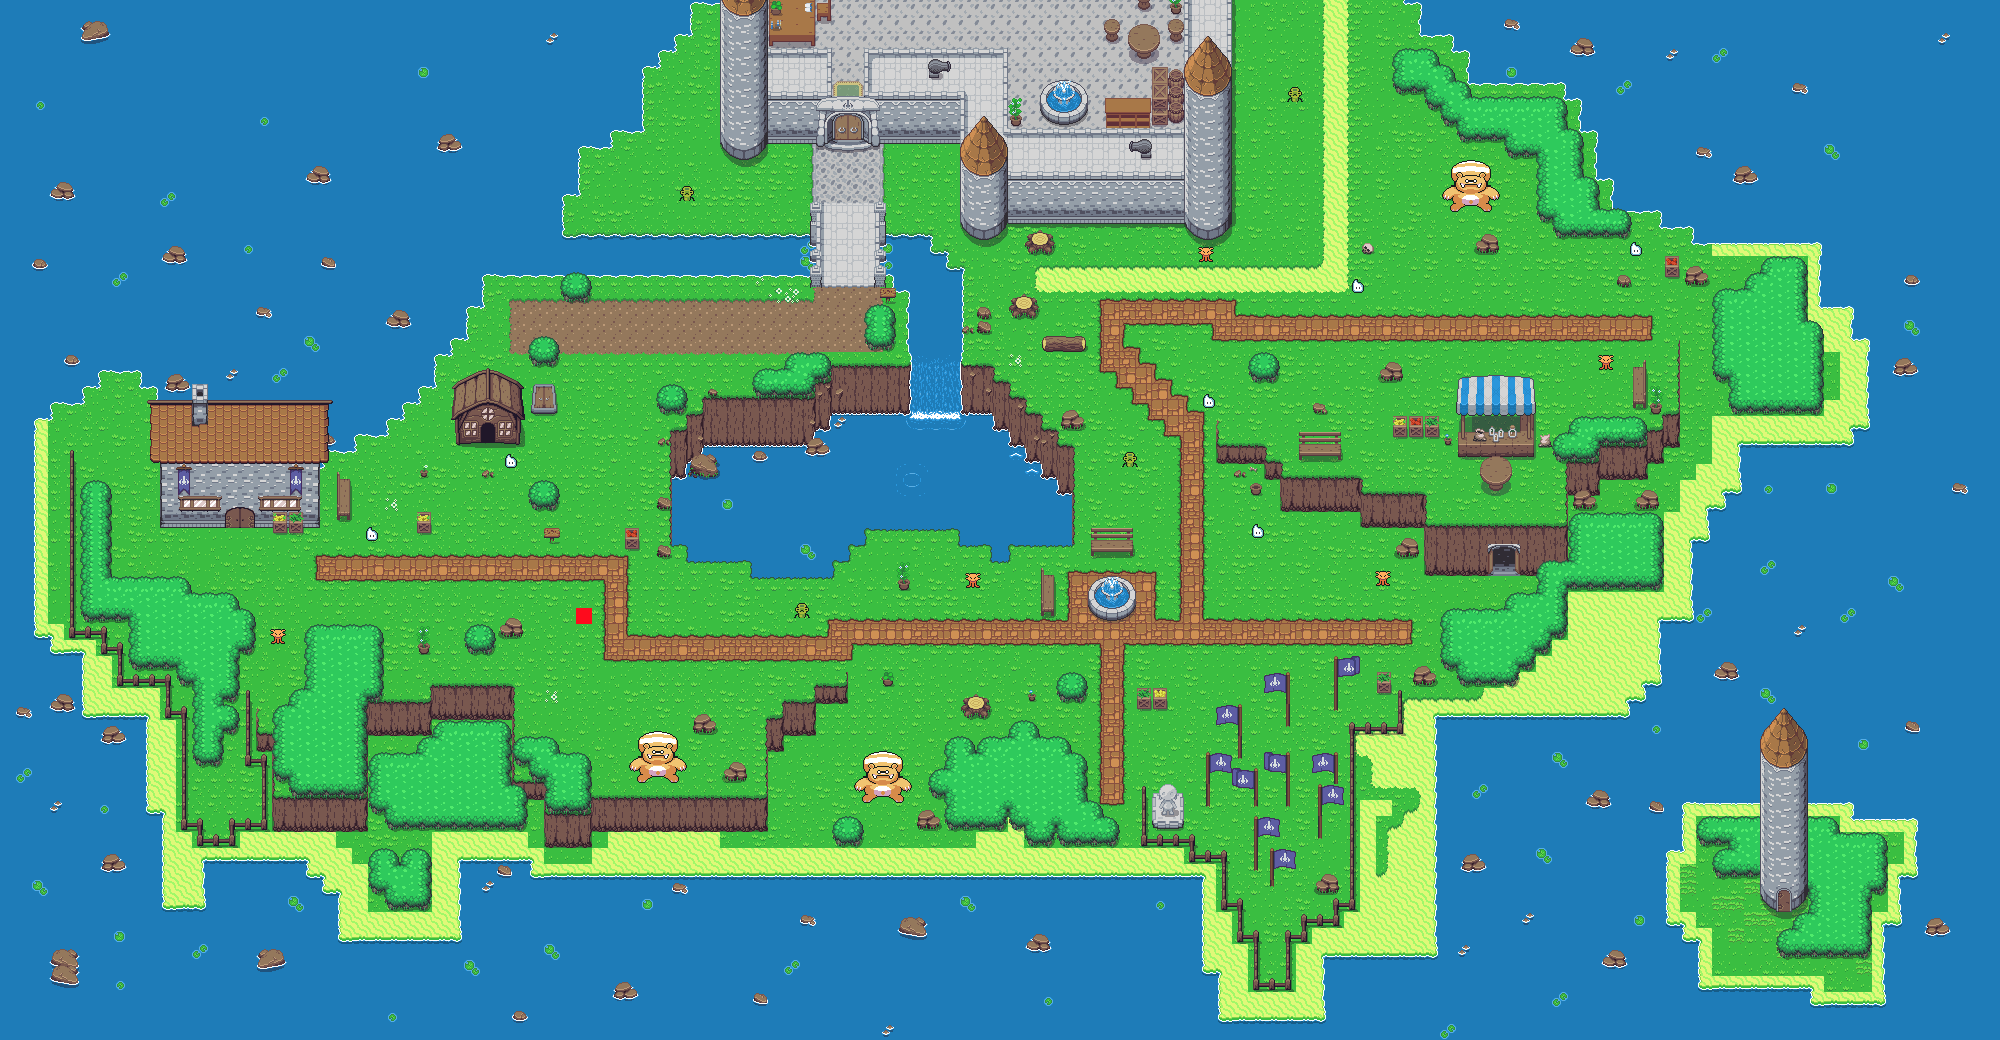
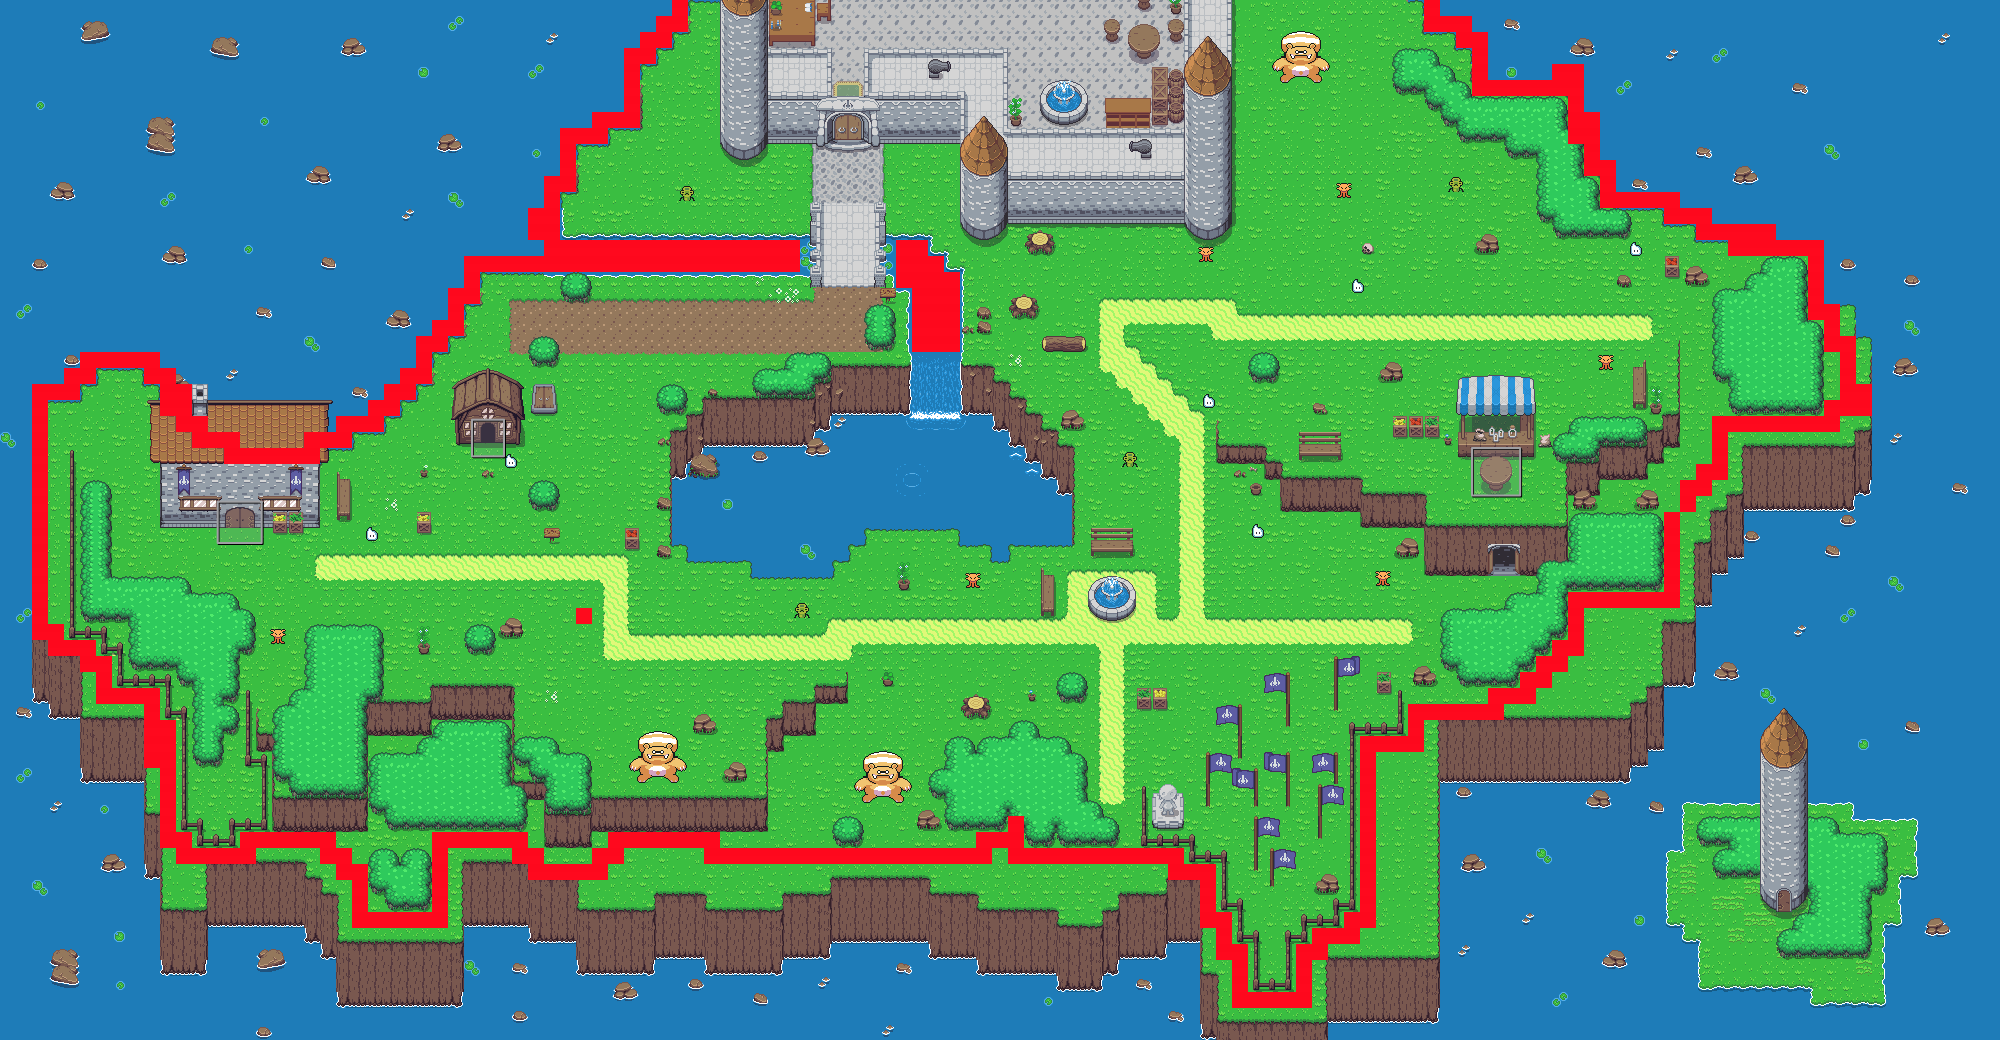
improve map

diff --git a/README.md b/README.md
@@ -4,4 +4,7 @@
 
 ### TODO
 
-
+- replace sand outskirts with water interacting with grass and dirt
+- replace white outlined grass with dirt outlined grass
+- fix bottom center to look non uniform
+- add right side dirt interacting with water
